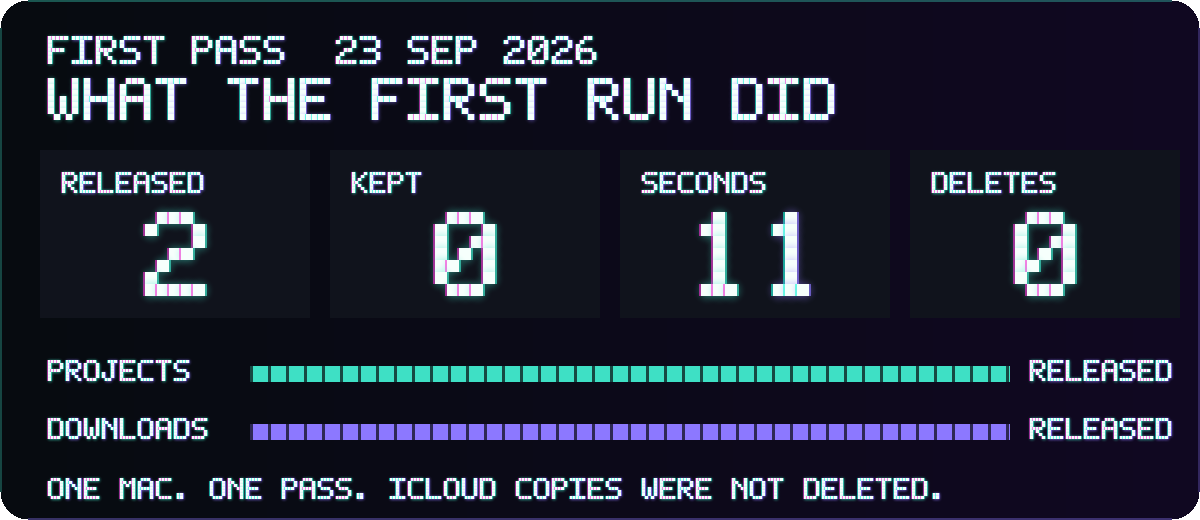
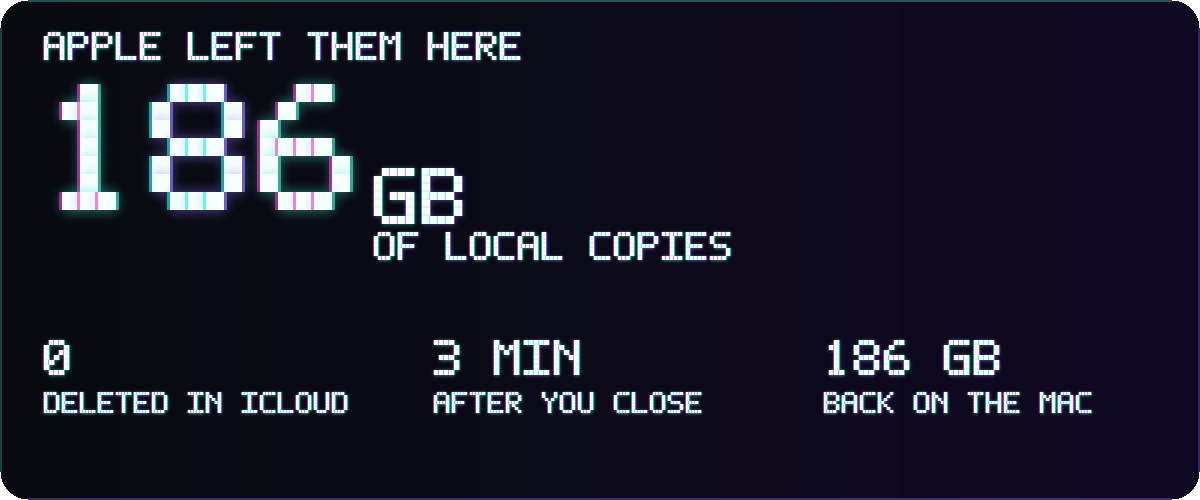
Replace the first-pass card with the storage Molt took back.

diff --git a/README.md b/README.md
@@ -11,7 +11,7 @@
   &nbsp;·&nbsp;
   <a href="#how">How it works</a>
   &nbsp;·&nbsp;
-  <a href="#first-pass">First pass</a>
+  <a href="#saved">Saved</a>
 </p>
 
 </div>
@@ -90,22 +90,13 @@ make install
 
 <p>Molt does not upload, rename, or delete anything in iCloud. It does not touch the Photos library. Desktop and Documents are included only when they already live inside iCloud Drive.</p>
 
-<h2 id="first-pass"><img src="assets/px-first.png" alt="First pass" height="48"></h2>
+<h2 id="saved"><img src="assets/px-saved.png" alt="Saved" height="48"></h2>
 
 <div align="center">
-  <img src="assets/stats.png" alt="First pass: 2 released, 0 kept, 11 seconds, 0 cloud deletes" width="880">
+  <img src="assets/stats.png" alt="186 GB of local copies back on the Mac. Nothing deleted from iCloud." width="880">
 </div>
 
-<table>
-  <tr><th></th><th>Result</th></tr>
-  <tr><td>When</td><td>23 Sep 2026, on the Mac this was written on</td></tr>
-  <tr><td>Released</td><td><code>Projects</code> and <code>Downloads</code></td></tr>
-  <tr><td>Kept</td><td>0</td></tr>
-  <tr><td>Time</td><td>11 seconds</td></tr>
-  <tr><td>Files removed from iCloud</td><td>0</td></tr>
-</table>
-
-<p>That is one machine, one pass. It is not a study and it is not a promise about how many gigabytes you get back. A folder that was already a cloud placeholder had nothing local to shed.</p>
+<p>Optimize Mac Storage is supposed to let go of a file after you close it. It does not, once the disk has room. On this Mac that was 186 GB of copies already sitting in iCloud. Molt took the local bytes back. The cloud files stayed.</p>
 
 <h2><img src="assets/px-layout.png" alt="Layout" height="48"></h2>
 
